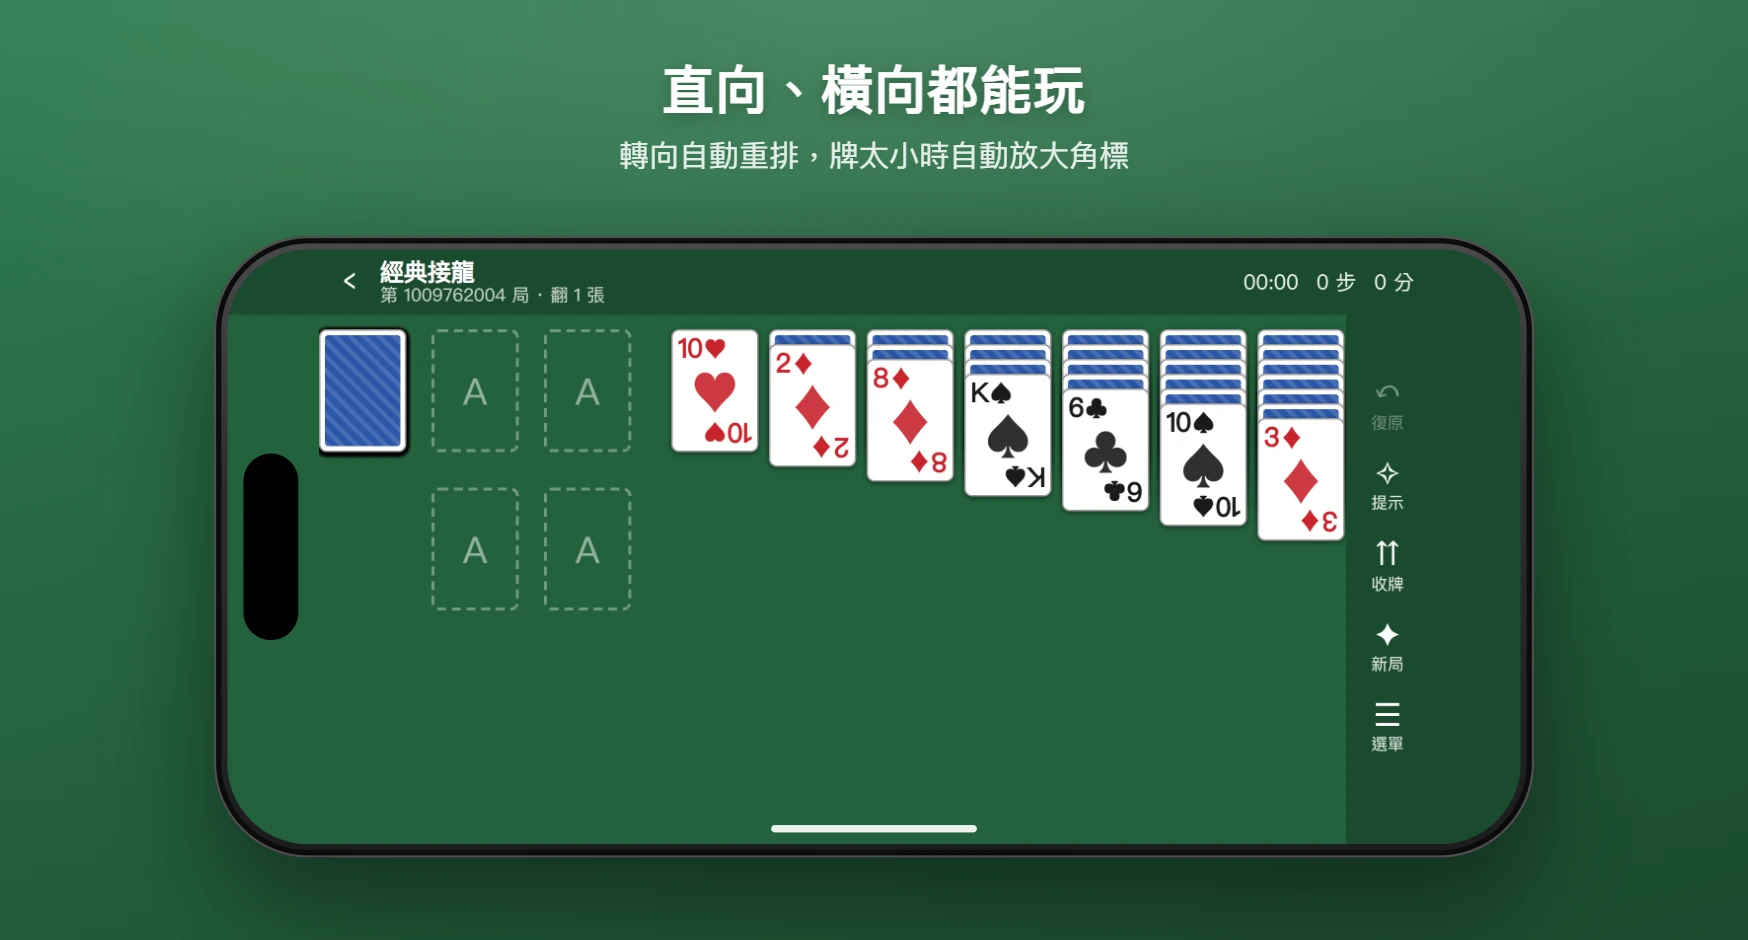
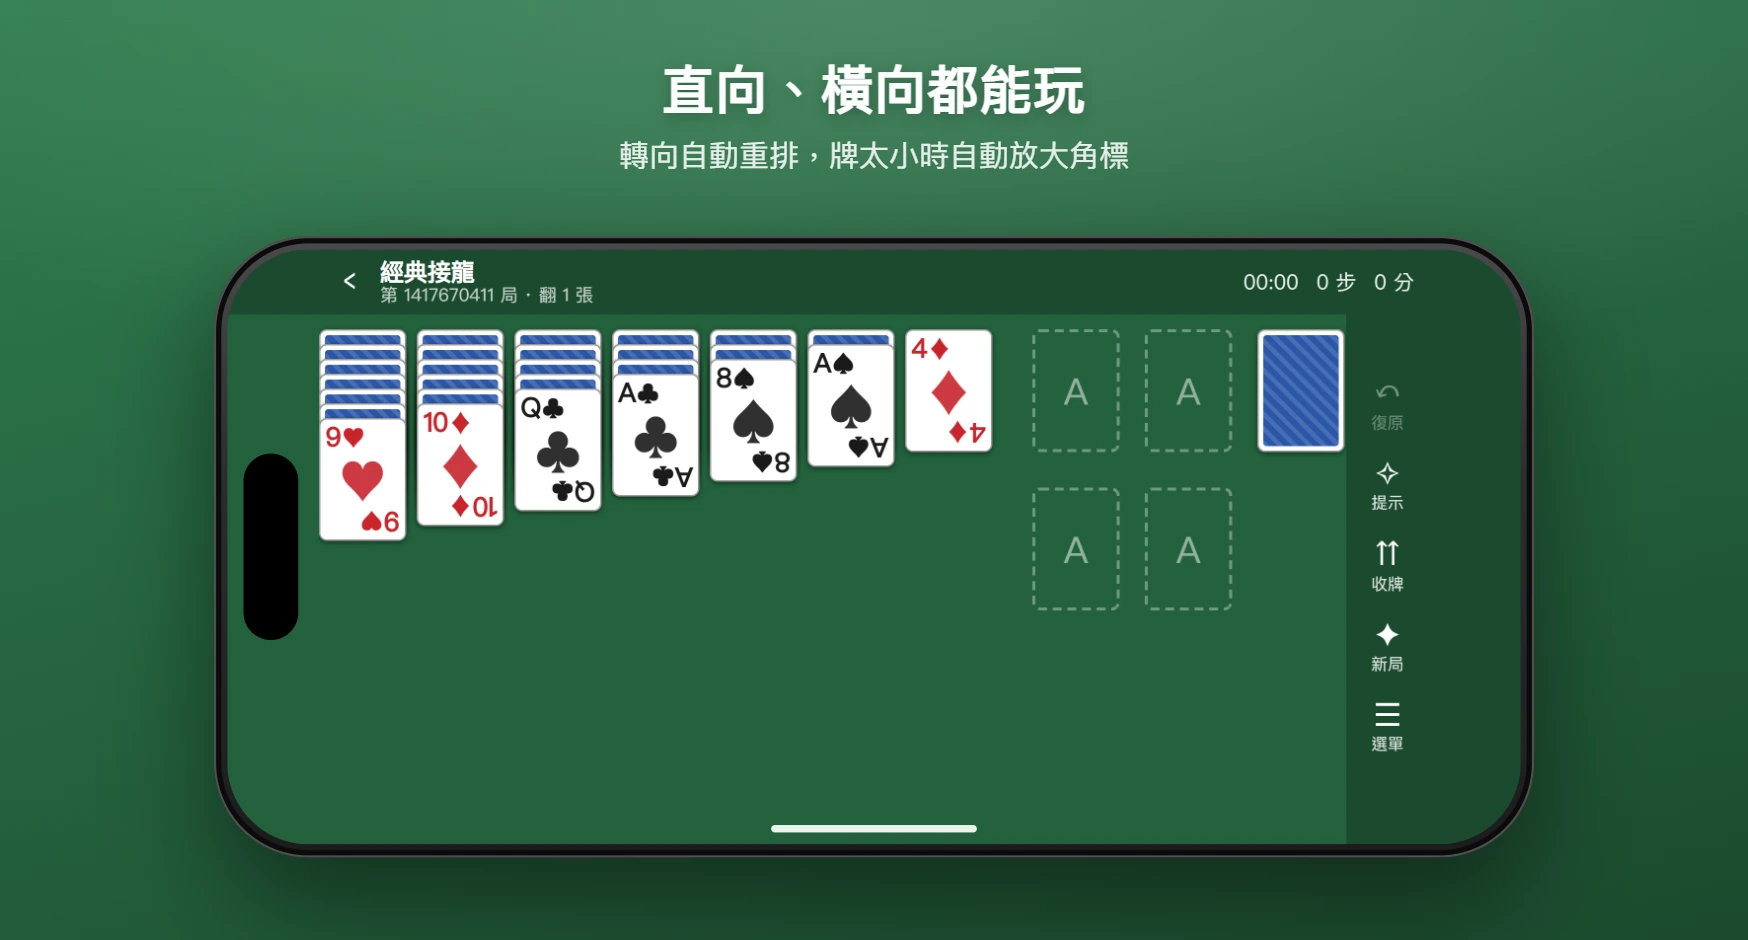
feat: v1.0.5 蜘蛛與新接龍不成串的牌調暗、牌堆數字不再被陰影蓋住

Changed region(s): [[0.1854, 0.3085, 0.7723, 0.617]]

diff --git a/css/style.css b/css/style.css
@@ -93,7 +93,8 @@ button.icon {
 .gcard-desc { font-size: 14px; opacity: 0.88; margin: 6px 0; line-height: 1.45; }
 .gcard-stats { font-size: 13px; opacity: 0.75; }
 .gcard-foot { display: flex; align-items: center; gap: 8px; margin-top: 10px; flex-wrap: wrap; }
-.gcard-foot .spacer { flex: 1; }
+/* 按鈕組不換行、整組靠右；跟難度選項擠不下時整組換到下一行 */
+.gcard-actions { display: flex; align-items: center; gap: 8px; margin-left: auto; flex-wrap: nowrap; }
 .seg { display: inline-flex; border: 1px solid rgba(255, 255, 255, 0.45); border-radius: 8px; overflow: hidden; }
 .seg button { background: none; border: none; color: inherit; padding: 6px 12px; font-size: 14px; }
 .seg button.on { background: rgba(255, 255, 255, 0.3); font-weight: 700; }
@@ -211,19 +212,25 @@ button.icon {
   font-size: calc(var(--cw) * 0.42);
 }
 .pile.ghost { border-color: transparent; }
-.pile .pbadge {
+/* 牌堆下方的數字（剩幾張、剩幾次重翻、收了幾串）：獨立一層、疊在所有牌之上，
+   位置由 render.js 設在牌堆正下方；窄牌時字級至少 11px，太寬就往兩側溢出、保持置中 */
+.pbadge {
   position: absolute;
-  bottom: calc(var(--cw) * -0.3);
-  left: -10px;
-  right: -10px;
-  text-align: center;
-  font-size: calc(var(--cw) * 0.22);
+  left: 0;
+  top: max(3px, calc(var(--cw) * 0.05));
+  width: var(--cw);
+  display: flex;
+  justify-content: center;
+  white-space: nowrap;
+  font-size: max(11px, calc(var(--cw) * 0.22));
   line-height: 1.1;
-  color: rgba(255, 255, 255, 0.9);
+  color: rgba(255, 255, 255, 0.92);
   font-weight: 600;
-  text-shadow: 0 1px 2px rgba(0, 0, 0, 0.5);
+  text-shadow: 0 1px 2px rgba(0, 0, 0, 0.6);
   pointer-events: none;
+  z-index: 900; /* 高於所有牌（最多約 300），低於拖曳中的牌（1000 起） */
 }
+.pbadge:empty { display: none; }
 .pile.kind-stock.has-cards .plabel { visibility: hidden; }
 
 /* ---- 附加面板（金字塔湊 13 小表） ---- */
@@ -263,6 +270,7 @@ button.icon {
   touch-action: none;
 }
 .no-anim .card { transition: none; }
+.card.buried { box-shadow: none; }
 .card.dragging { transition: none; box-shadow: 0 8px 18px rgba(0, 0, 0, 0.45); }
 .card .face { position: absolute; inset: 0; }
 .card .corner {
@@ -308,6 +316,20 @@ button.icon {
 .narrow .card .corner.br { display: none; }
 .narrow .card .corner.tl { top: 3%; left: 5%; font-size: calc(var(--cw) * 0.42); }
 .narrow .card .mid { font-size: calc(var(--cw) * 0.45); opacity: 0.5; }
+
+/* 疊牌欄裡不屬於最上面那串順序牌的面朝上牌蓋一層淡黑，一眼看出哪一段能整串搬（蜘蛛、新接龍）。
+   用 ::after 疊一層而不是 filter，才不會把提示與選取的外光一起調暗；inset -1px 連邊框一起蓋 */
+.card::after {
+  content: '';
+  position: absolute;
+  inset: -1px;
+  border-radius: inherit;
+  background: rgba(0, 0, 0, 0.18);
+  opacity: 0;
+  transition: opacity 0.18s ease;
+  pointer-events: none;
+}
+.card.dim:not(.down)::after { opacity: 1; }
 
 .card.selected { box-shadow: 0 0 0 3px #4fc3f7, 0 0 12px 3px rgba(79, 195, 247, 0.8); }
 .card.hint, .pile.hint { animation: hintglow 1.5s ease; }

diff --git a/js/render.js b/js/render.js
@@ -54,13 +54,19 @@ export class Renderer {
     this.pileEls.clear();
     this.pos.clear();
     this.extraEls = new Map();
+    this.badgeEls = new Map();
     for (const p of game.piles) {
       const d = document.createElement('div');
       d.className = `pile kind-${p.kind}` + (p.placeholder ? '' : ' ghost');
       d.dataset.pile = p.id;
-      d.innerHTML = `<span class="plabel">${p.label}</span><span class="pbadge"></span>`;
+      d.innerHTML = `<span class="plabel">${p.label}</span>`;
       this.el.appendChild(d);
       this.pileEls.set(p.id, d);
+      // 牌堆下方的數字獨立一層、疊在所有牌之上；放在牌堆元素裡會被牌堆上幾十張牌的陰影蓋住
+      const bd = document.createElement('div');
+      bd.className = 'pbadge';
+      this.el.appendChild(bd);
+      this.badgeEls.set(p.id, bd);
     }
     for (const c of game.cards) {
       const d = createCardEl(c);
@@ -136,6 +142,7 @@ export class Renderer {
       const d = this.pileEls.get(p.id);
       d.style.transform = `translate3d(${px}px,${py}px,0)`;
       d.style.zIndex = 1 + (p.meta.z || 0);
+      this.badgeEls.get(p.id).style.transform = `translate3d(${px}px,${py + ch}px,0)`;
     }
     // 附加面板
     const wanted = new Set();
@@ -202,6 +209,7 @@ export class Renderer {
       let minX = 0;
       let maxX = 0;
       let maxY = 0;
+      const runStart = g.runStart(p); // 這張以下不成串，調暗
       p.cards.forEach((c, i) => {
         const el = this.cardEls.get(c.id);
         const x = pp.x + offsets[i].x;
@@ -212,6 +220,9 @@ export class Renderer {
           el.style.zIndex = 10 + (p.meta.z || 0) * 40 + i;
         }
         el.classList.toggle('down', !c.faceUp);
+        el.classList.toggle('dim', i < runStart);
+        // 疊在同一個位置的牌（牌堆、基礎堆）只留最上面那張的陰影，幾十層陰影疊起來會變成一大塊黑
+        el.classList.toggle('buried', pp.fan === 'none' && i < n - 1);
         el.classList.toggle('selected', g.selected === c);
         minX = Math.min(minX, offsets[i].x);
         maxX = Math.max(maxX, offsets[i].x);
@@ -219,7 +230,7 @@ export class Renderer {
       });
       this.pileRects.set(p.id, { x: pp.x + minX, y: pp.y, w: cw + (maxX - minX), h: ch + maxY });
       const pe = this.pileEls.get(p.id);
-      pe.querySelector('.pbadge').textContent = g.badge(p);
+      this.badgeEls.get(p.id).textContent = g.badge(p);
       pe.classList.toggle('has-cards', n > 0);
     }
     for (const [id, el] of this.extraEls) g.decorateExtra(id, el);

diff --git a/tests.html b/tests.html
@@ -327,7 +327,37 @@ test('Spider：有空欄時不能發牌', () => {
   ok(msg.length > 0);
 });
 
+test('順序串標示：蜘蛛只有最上面同花色連續的牌算一串', () => {
+  const g = newGame(Spider, 3, { suits: 4 });
+  for (const p of g.piles) p.cards = [];
+  const t0 = g.tableau[0];
+  put(g, t0, [card(g, 'S', 10), card(g, 'H', 9), card(g, 'S', 8), card(g, 'S', 7)]);
+  eq(g.runStart(t0), 2, '只有黑桃 8-7 成串，10 與紅心 9 要調暗');
+  t0.cards = [];
+  put(g, t0, [card(g, 'S', 10), card(g, 'S', 9), card(g, 'S', 8)]);
+  t0.cards[0].faceUp = false;
+  eq(g.runStart(t0), 1, '背面牌不算在串裡');
+  eq(g.runStart(g.tableau[1]), 0, '空欄');
+  eq(g.runStart(g.foundation), 0, '疊牌欄以外不調暗');
+});
+
 // ---------- 新接龍 ----------
+test('順序串標示：新接龍只有最上面紅黑交錯遞減的牌算一串', () => {
+  const g = newGame(FreeCell, 1, { cells: 4 });
+  for (const p of g.piles) p.cards = [];
+  const t0 = g.tableau[0];
+  put(g, t0, [card(g, 'S', 9), card(g, 'H', 8), card(g, 'C', 7)]);
+  eq(g.runStart(t0), 0, '整欄都成串');
+  t0.cards = [];
+  put(g, t0, [card(g, 'S', 9), card(g, 'S', 8), card(g, 'H', 7), card(g, 'D', 5)]);
+  eq(g.runStart(t0), 3, '7 與 5 不相連，只有最上面的 5 算一串');
+  t0.cards.pop();
+  eq(g.runStart(t0), 1, '黑 9 與黑 8 同色，從 8 開始才成串');
+});
+test('順序串標示：經典接龍面朝上的牌都不調暗', () => {
+  const g = newGame(Klondike, 8, {});
+  for (const t of g.tableau) eq(g.runStart(t), t.cards.findIndex((c) => c.faceUp));
+});
 test('FreeCell：暫存格數量選項', () => {
   eq(newGame(FreeCell, 1, { cells: 4 }).cells.length, 4);
   eq(newGame(FreeCell, 1, { cells: 2 }).cells.length, 2);

diff --git a/js/rules.js b/js/rules.js
@@ -28,7 +28,7 @@ export const RULES = {
 <h3>規則</h3>
 <ul>
 <li>任何牌都可以接在<b>比它大 1</b> 的牌上，花色不限。</li>
-<li>但只有<b>同花色連續</b>的一串牌才能整疊搬動。</li>
+<li>但只有<b>同花色連續</b>的一串牌才能整疊搬動。每一欄最上面那串能整疊搬的牌正常顯示，它以下不成串的牌會稍微變暗。</li>
 <li>任何牌或同花色串都可以放到空欄。</li>
 <li>牌都排不動時，點左上角的牌堆會給每一欄各發一張牌。<b>發牌前每一欄都必須有牌。</b></li>
 </ul>
@@ -49,6 +49,7 @@ export const RULES = {
 <li>疊牌欄中牌必須<b>紅黑交錯、由大到小</b>往下接。</li>
 <li>左上方的<b>暫存格</b>每格只能放一張牌，隨時可以拿回來。標準是 4 格，可在設定改成 3、2、1 格提高難度。</li>
 <li>任何牌都可以放到空欄。</li>
+<li>每一欄最上面那串紅黑交錯、由大到小的牌正常顯示，它以下不成串的牌會稍微變暗，一眼看出能整疊搬的有幾張。</li>
 <li>一次能搬動的牌數有上限：(空暫存格數 + 1) × 2<sup>空欄數</sup>。搬到空欄時，那一欄不算。</li>
 </ul>
 <h3>牌局編號</h3>

diff --git a/js/app.js b/js/app.js
@@ -201,9 +201,10 @@ function renderHome() {
     const foot = card.querySelector('.gcard-foot');
     const ctrl = optionControl(m.id, false);
     if (ctrl) foot.appendChild(ctrl);
-    const spacer = document.createElement('span');
-    spacer.className = 'spacer';
-    foot.appendChild(spacer);
+    // 按鈕組：「繼續」與「新局」包在同一組，空間不夠時整組一起換到下一行，不會被拆開；一律靠右
+    const actions = document.createElement('div');
+    actions.className = 'gcard-actions';
+    foot.appendChild(actions);
     if (inProgress) {
       const b1 = button('繼續', 'btn primary', () => startGame(m.id, 'resume'));
       const b2 = button('新局', 'btn', () => {
@@ -223,9 +224,9 @@ function renderHome() {
           ],
         });
       });
-      foot.append(b1, b2);
+      actions.append(b1, b2);
     } else {
-      foot.appendChild(button('開始', 'btn primary', () => startGame(m.id, 'new')));
+      actions.appendChild(button('開始', 'btn primary', () => startGame(m.id, 'new')));
     }
     card.querySelector('.gcard-main').addEventListener('click', () => startGame(m.id, inProgress ? 'resume' : 'new'));
     list.appendChild(card);

diff --git a/js/engine.js b/js/engine.js
@@ -310,6 +310,15 @@ export class Game {
   winBonus() {
     return 0;
   }
+  // 疊牌欄最上面那段「照順序、可以整串拿起」的牌從第幾張開始。
+  // 渲染器把這張以下的面朝上牌稍微調暗，玩家一眼看出上面那串接得多長（蜘蛛、新接龍最有用）。
+  // 預設沿用 canPick：從最上面往下，能拿起就算在串裡。經典接龍面朝上的牌本來就都成串，所以看不出差別
+  runStart(pile) {
+    if (pile.kind !== 'tableau' || pile.empty) return 0;
+    let i = pile.size - 1;
+    while (i > 0 && this.canPick(pile, i - 1)) i--;
+    return i;
+  }
   // 牌桌上的附加面板（例如金字塔的湊 13 小表），由 layout().extras 指定位置
   extraHtml() {
     return '';

diff --git a/version.js b/version.js
@@ -1,5 +1,5 @@
 // 版本資訊：唯一需要手動改的地方
 // - APP_VERSION 對應 CHANGELOG 與 package.json
 // - APP_BUILD 每次部署加一，Service Worker 會用它換快取、提示使用者更新
-self.APP_VERSION = '1.0.4';
-self.APP_BUILD = 8;
+self.APP_VERSION = '1.0.5';
+self.APP_BUILD = 10;

diff --git a/README.md b/README.md
@@ -5,7 +5,7 @@
 <h1 align="center">🃏 接龍合集</h1>
 
 <p align="center">
-  <a href="CHANGELOG.md"><img src="https://img.shields.io/badge/version-1.0.4-blue.svg" alt="Version"></a>
+  <a href="CHANGELOG.md"><img src="https://img.shields.io/badge/version-1.0.5-blue.svg" alt="Version"></a>
   <a href="LICENSE"><img src="https://img.shields.io/badge/license-MIT-blue.svg" alt="License: MIT"></a>
   <a href="#-安裝到-iphone"><img src="https://img.shields.io/badge/PWA-ready-success.svg" alt="PWA"></a>
 </p>
@@ -67,6 +67,7 @@
 ## ✨ 功能
 
 - 👆 拖曳整疊搬動，或點一下自動移到最合理的位置
+- 🔦 蜘蛛接龍、新接龍把不成串的牌稍微調暗，一眼看出最上面那串能整疊搬幾張
 - ↩ 無限復原、💡 提示、⏫ 一鍵收牌
 - 🔁 長按「復原」或從選單回到這局開頭，同一副牌重來且不算放棄
 - 💾 每款各自存檔，切換遊戲或關閉後再開都能繼續，連復原歷史也保留

diff --git a/CHANGELOG.md b/CHANGELOG.md
@@ -1,5 +1,15 @@
 # 版本紀錄
 
+## 1.0.5 — 2026-09-23
+
+### 新增
+- 蜘蛛接龍、新接龍：每一欄最上面那串能整疊搬的牌維持原本亮度，它以下不成串的面朝上牌稍微變暗，一眼看出上面那串接得多長
+
+### 修正
+- 牌堆下方的數字（剩餘張數、重翻次數、收了幾串）被牌堆疊起來的陰影蓋住，窄牌時幾乎看不到。數字改到所有牌之上的獨立一層，字級至少 11px
+- 疊在同一位置的牌只留最上面那張的陰影，牌堆底下不再出現一大塊黑色
+- 首頁卡片的「繼續」與「新局」包成一組，窄螢幕上跟難度選項擠不下時一起換到下一行並靠右，不會再被拆成兩行
+
 ## 1.0.4 — 2026-09-18
 
 ### 修正
